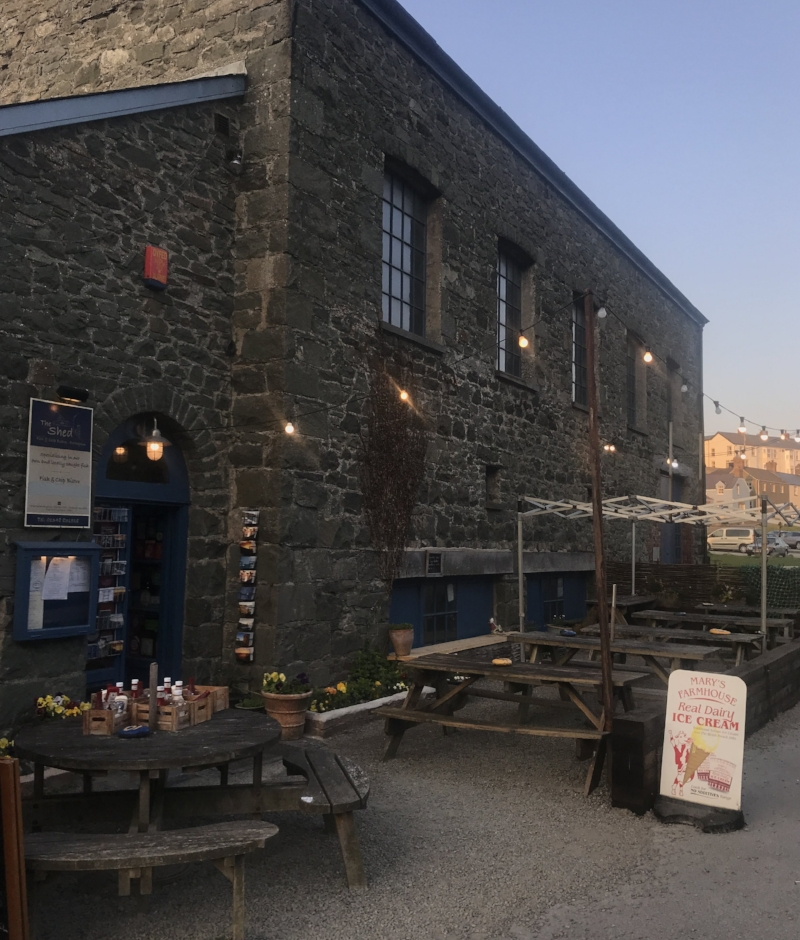
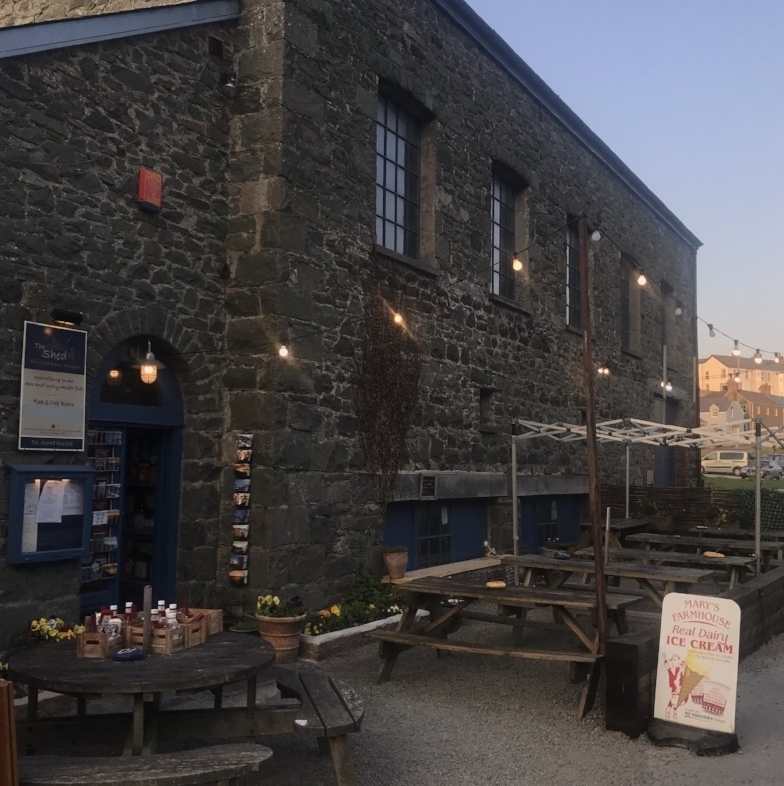
Added embed map and edited images

diff --git a/index.html b/index.html
@@ -52,12 +52,20 @@
           <h2 class="text-center">Eateries</h2>
           <div class="grid grid-3-columns">
             <div class="card">
-              <div class="card-header">
+              <div class="card-header grid grid-2-columns">
                 <img
                   src="images/eateries/mamgu.jpg"
                   alt="Mamgu"
                   class="img-responsive"
                 />
+                <iframe
+                  src="https://www.google.com/maps/embed?pb=!1m18!1m12!1m3!1d2462.8257191246653!2d-5.271219623357406!3d51.88239377190101!2m3!1f0!2f0!3f0!3m2!1i1024!2i768!4f13.1!3m3!1m2!1s0x4869202ffb11d6dd%3A0x108eec8044da5c54!2sMamGu%20Welshcakes!5e0!3m2!1sen!2suk!4v1709309391589!5m2!1sen!2suk"
+                  class="embed"
+                  style="border: 0"
+                  allowfullscreen=""
+                  loading="lazy"
+                  referrerpolicy="no-referrer-when-downgrade"
+                ></iframe>
               </div>
               <div class="card-body">
                 <h4>Mamgu</h4>
@@ -74,7 +82,7 @@
                   memorable experience.
                 </p>
                 <hr />
-                <p>Refectory, St Davids, Cathedral SA62 6PE</p>
+                <p>▸ Refectory, St Davids, Cathedral SA62 6PE</p>
                 <a
                   href="https://maps.app.goo.gl/JFoNk75j3kmujGu79"
                   target="_blank"
@@ -84,12 +92,20 @@
               </div>
             </div>
             <div class="card">
-              <div class="card-header">
+              <div class="card-header grid grid-2-columns">
                 <img
                   src="images/eateries/theshed.JPG"
                   alt="The Shed"
                   class="img-responsive"
                 />
+                <iframe
+                  src="https://www.google.com/maps/embed?pb=!1m18!1m12!1m3!1d2518242.4763572733!2d-9.795952312500006!3d51.94815820000001!2m3!1f0!2f0!3f0!3m2!1i1024!2i768!4f13.1!3m3!1m2!1s0x4868dfb30da0e397%3A0x2ffaad4fc4334363!2sThe%20Shed%20Fish%20%26%20Chip%20Bistro!5e0!3m2!1sen!2suk!4v1709310656847!5m2!1sen!2suk"
+                  class="embed"
+                  style="border: 0"
+                  allowfullscreen=""
+                  loading="lazy"
+                  referrerpolicy="no-referrer-when-downgrade"
+                ></iframe>
               </div>
               <div class="card-body">
                 <h4>The Shed</h4>
@@ -103,7 +119,7 @@
                   also serve fresh coffee, teas and homemade cakes.
                 </p>
                 <hr />
-                <p>56 Llanrhian Rd, Porthgain, Haverfordwest SA62 5BN</p>
+                <p>▸ 56 Llanrhian Rd, Porthgain, Haverfordwest SA62 5BN</p>
                 <a
                   href="https://maps.app.goo.gl/TRpzmNnfoHiKrAvVA"
                   target="_blank"
@@ -113,12 +129,20 @@
               </div>
             </div>
             <div class="card">
-              <div class="card-header">
+              <div class="card-header grid grid-2-columns">
                 <img
-                  src="images/eateries/brideinn.jpg"
+                  src="images/eateries/brideinn.png"
                   alt="St.Brides inn"
                   class="img-responsive"
                 />
+                <iframe
+                  src="https://www.google.com/maps/embed?pb=!1m18!1m12!1m3!1d19749.83297841708!2d-5.138058533895463!3d51.77455900948011!2m3!1f0!2f0!3f0!3m2!1i1024!2i768!4f13.1!3m3!1m2!1s0x4869231274f8af67%3A0x60fbabc833b0dc7a!2sSt.%20Brides%20Inn!5e0!3m2!1sen!2suk!4v1709310591038!5m2!1sen!2suk"
+                  class="embed"
+                  style="border: 0"
+                  allowfullscreen=""
+                  loading="lazy"
+                  referrerpolicy="no-referrer-when-downgrade"
+                ></iframe>
               </div>
               <div class="card-body">
                 <h4>St. Brides Inn</h4>
@@ -135,7 +159,7 @@
                   ingredients
                 </p>
                 <hr />
-                <p>St Brides Rd, Little Haven, Haverfordwest SA62 3UN</p>
+                <p>▸ St Brides Rd, Little Haven, Haverfordwest SA62 3UN</p>
                 <a
                   href="https://maps.app.goo.gl/44GX7ihe8kCsyR339"
                   target="_blank"

diff --git a/src/styles.css b/src/styles.css
@@ -33,6 +33,23 @@ body {
   grid-template-columns: 1fr 2fr 2fr;
   grid-gap: 64px;
 }
+.card {
+  background-color: var(--accent-colour);
+  margin: 20px 0;
+}
+.card-body {
+  padding: 30px;
+}
+.card-header.grid {
+  grid-gap: 0;
+}
+.embed {
+  width: 100%;
+  aspect-ratio: 1 /1;
+}
+.instagram-embeds {
+  margin: 30px 0;
+}
 header {
   background-image: linear-gradient(
       rgba(184, 180, 180, 0.4),
@@ -48,7 +65,7 @@ header {
 h1 {
   font-family: var(--default-font-family);
   font-weight: 600;
-  font-size: 66px;
+  font-size: 72px;
   line-height: 1.5;
   margin: 10px 0;
 }
@@ -89,7 +106,8 @@ header a:active {
   transform: scale(0.9);
 }
 .img-responsive {
-  max-width: 100%;
+  width: 100%;
+  display: block;
 }
 main {
   background-color: var(--accent-colour);
@@ -115,13 +133,6 @@ section {
 }
 section.content {
   background-color: var(--primary-colour);
-}
-.card {
-  background-color: var(--accent-colour);
-  margin: 20px 0;
-}
-.card-body {
-  padding: 30px;
 }
 hr {
   border: 1px solid #fdac61;
@@ -178,16 +189,24 @@ footer a:hover {
   h1 {
     font-size: 38px;
   }
-
   header h2 {
     font-size: 26px;
+  }
+  header h3 {
+    font-size: 12px;
   }
   .grid {
     grid-template-columns: 1fr;
     grid-gap: 32px;
   }
-
   section {
     padding: 30px;
+  }
+  .card-header img {
+    display: none;
+  }
+
+  .embed {
+    aspect-ratio: 16 / 9;
   }
 }
